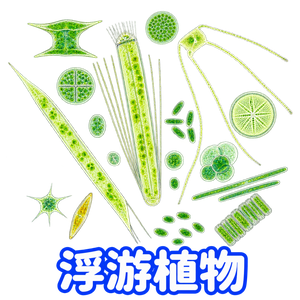
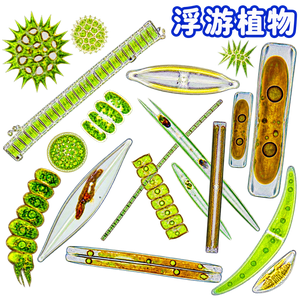
更新浮游植物圖卡：清晰透明影像、右上白字藍框與圖片快取版本

diff --git a/index.html b/index.html
@@ -1,11 +1,11 @@
 <!doctype html>
 <html lang="zh-Hant">
-<head><meta charset="utf-8"><meta name="viewport" content="width=device-width,initial-scale=1"><title>共建河口食物網</title><link rel="stylesheet" href="./docs/web/styles.css?v=20261008-large-activities"></head>
+<head><meta charset="utf-8"><meta name="viewport" content="width=device-width,initial-scale=1"><title>共建河口食物網</title><link rel="stylesheet" href="./docs/web/styles.css?v=20261008-phytoplankton"></head>
 <body>
  <header><div class="heading"><span class="eyebrow">探索・連結・共建</span><h1>共建河口食物網</h1></div><div class="activity-picker" role="group" aria-label="選擇活動"><button id="activity-1" aria-pressed="true">活動1 · 12項</button><button id="activity-2" aria-pressed="false">活動2 · 24項</button></div><div class="legend"><span class="dot yellow"></span>食物網連線 <span class="dot blue"></span>選取生物的關係</div></header>
  <nav aria-label="食物網操作"><div class="tools"><button id="cancel">取消本次選取 <kbd>Esc</kbd></button><button id="delete-edge" disabled>刪除選取連線</button><button id="undo">復原上一條連線</button><button id="clear">清除全部連線</button><button id="shuffle">重新排列</button><button id="fullscreen" aria-pressed="false">全螢幕</button><label class="size-control" for="card-size">圖卡大小 <input id="card-size" type="range" min="65" max="150" step="5" value="100"><output id="size-value" for="card-size">100%</output></label></div><span class="download-progress"><span id="load-progress" role="status" aria-live="polite"></span> <button id="retry-images" hidden>重試圖卡</button></span><span id="count">0 條連線</span></nav>
  <main><section class="left" aria-label="食物網互動區"><div class="instruction"><span class="step">01</span> 點選起點 <span class="separator">→</span><span class="step">02</span> 點選終點 <span class="help">右側按鈕查看說明；拖曳調整位置；點選箭頭可刪除</span></div><div id="viewport"><div id="board"><svg id="edges" aria-label="食物網連線"><defs><marker id="arrow-yellow" viewBox="0 0 10 10" refX="9" refY="5" markerWidth="7" markerHeight="7" orient="auto-start-reverse"><path d="M 0 0 L 10 5 L 0 10 z" fill="#f4d351"/></marker><marker id="arrow-blue" viewBox="0 0 10 10" refX="9" refY="5" markerWidth="7" markerHeight="7" orient="auto-start-reverse"><path d="M 0 0 L 10 5 L 0 10 z" fill="#56b5ff"/></marker></defs><g id="paths"></g></svg><div id="cards"></div><div id="loading">正在載入河口圖卡…</div></div></div><footer id="status" role="status" aria-live="polite">先點選一張圖卡，開始探索。</footer></section><aside id="details" aria-label="生物詳細介紹"><div class="empty"><span class="empty-icon">◎</span><p class="eyebrow">認識河口的生命</p><h2>從一張圖卡開始</h2><p>先點選左側圖卡，再按右側的「查看詳細內容」按鈕，查看放大圖與介紹。</p><div class="note">連續點選兩張圖卡，<br>把你的觀察連成食物網。</div></div></aside></main>
- <script src="./docs/species/offline-data.js?v=20261008-large-activities"></script>
- <script src="./docs/web/app.bundle.js?v=20261008-large-activities"></script>
+ <script src="./docs/species/offline-data.js?v=20261008-phytoplankton"></script>
+ <script src="./docs/web/app.bundle.js?v=20261008-phytoplankton"></script>
 
 </body></html>

diff --git a/docs/web/data.js b/docs/web/data.js
@@ -16,7 +16,7 @@ export async function loadSpecies(){
  const base=new URL('./docs/species/',document.baseURI);
  if(location.protocol==='file:'){
   if(typeof window.FOOD_WEB_MARKDOWN!=='string')throw new Error('離線介紹資料未載入，請確認 docs/species/offline-data.js 存在。');
-  return [...parseSpeciesMarkdown(window.FOOD_WEB_MARKDOWN)].map(([name,sections])=>({name,sections,image:new URL(encodeURIComponent(name+'.webp'),base).href}));
+  return [...parseSpeciesMarkdown(window.FOOD_WEB_MARKDOWN)].map(([name,sections])=>({name,sections,image:new URL(encodeURIComponent(name+'.webp')+(name==='浮游植物'?'?v=20261008-new':''),base).href}));
  }
  const controller=new AbortController();
  const timeout=setTimeout(()=>controller.abort(),12000);
@@ -26,7 +26,7 @@ export async function loadSpecies(){
  finally{clearTimeout(timeout);}
  if(!response.ok)throw new Error('無法讀取介紹檔，請確認 docs/species 資料夾完整後重試。');
  const sections=parseSpeciesMarkdown(await response.text());
- return [...sections].map(([name,sections])=>({name,sections,image:new URL(encodeURIComponent(name+'.webp'),base).href}));
+ return [...sections].map(([name,sections])=>({name,sections,image:new URL(encodeURIComponent(name+'.webp')+(name==='浮游植物'?'?v=20261008-new':''),base).href}));
 }
 const speciesImageCache=new Map();
 export function loadSpeciesImage(item,priority="high"){

diff --git a/docs/web/app.bundle.js b/docs/web/app.bundle.js
@@ -18,7 +18,7 @@ async function loadSpecies(){
  const base=new URL('./docs/species/',document.baseURI);
  if(location.protocol==='file:'){
   if(typeof window.FOOD_WEB_MARKDOWN!=='string')throw new Error('離線介紹資料未載入，請確認 docs/species/offline-data.js 存在。');
-  return [...parseSpeciesMarkdown(window.FOOD_WEB_MARKDOWN)].map(([name,sections])=>({name,sections,image:new URL(encodeURIComponent(name+'.webp'),base).href}));
+  return [...parseSpeciesMarkdown(window.FOOD_WEB_MARKDOWN)].map(([name,sections])=>({name,sections,image:new URL(encodeURIComponent(name+'.webp')+(name==='浮游植物'?'?v=20261008-new':''),base).href}));
  }
  const controller=new AbortController();
  const timeout=setTimeout(()=>controller.abort(),12000);
@@ -28,7 +28,7 @@ async function loadSpecies(){
  finally{clearTimeout(timeout);}
  if(!response.ok)throw new Error('無法讀取介紹檔，請確認 docs/species 資料夾完整後重試。');
  const sections=parseSpeciesMarkdown(await response.text());
- return [...sections].map(([name,sections])=>({name,sections,image:new URL(encodeURIComponent(name+'.webp'),base).href}));
+ return [...sections].map(([name,sections])=>({name,sections,image:new URL(encodeURIComponent(name+'.webp')+(name==='浮游植物'?'?v=20261008-new':''),base).href}));
 }
 const speciesImageCache=new Map();
 function loadSpeciesImage(item,priority="high"){
